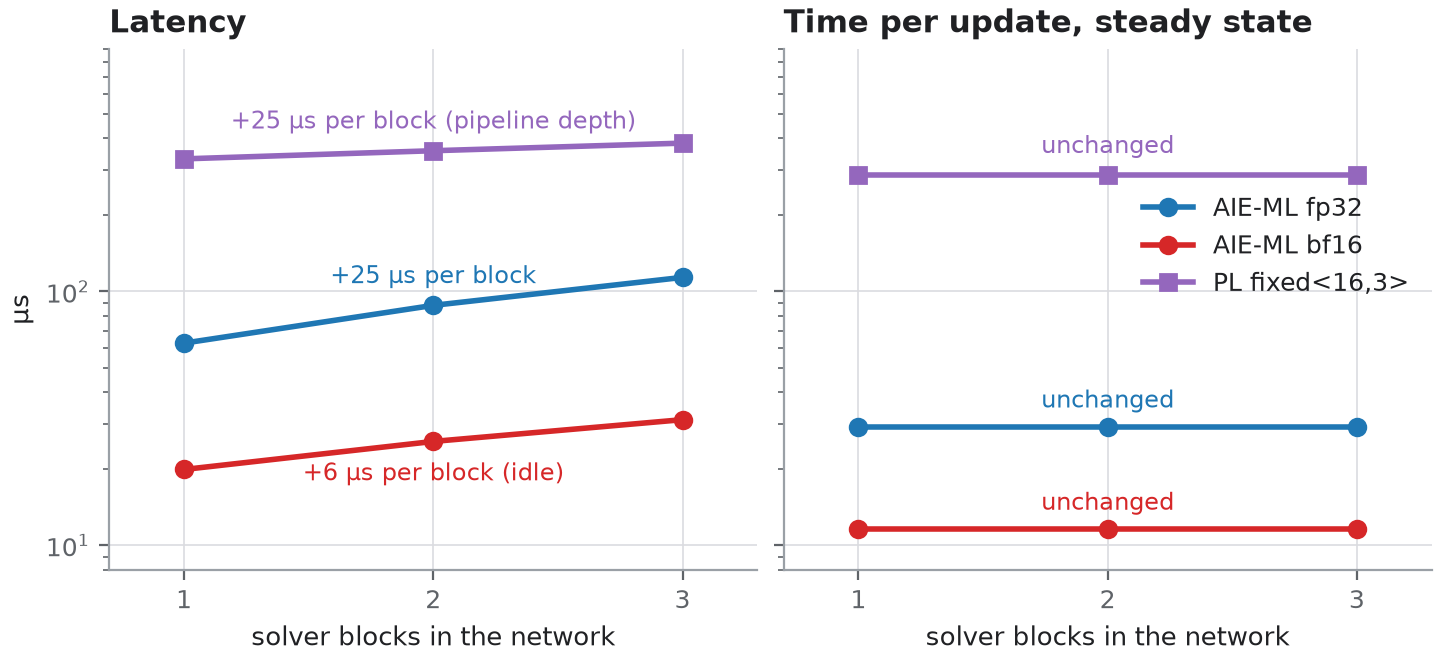
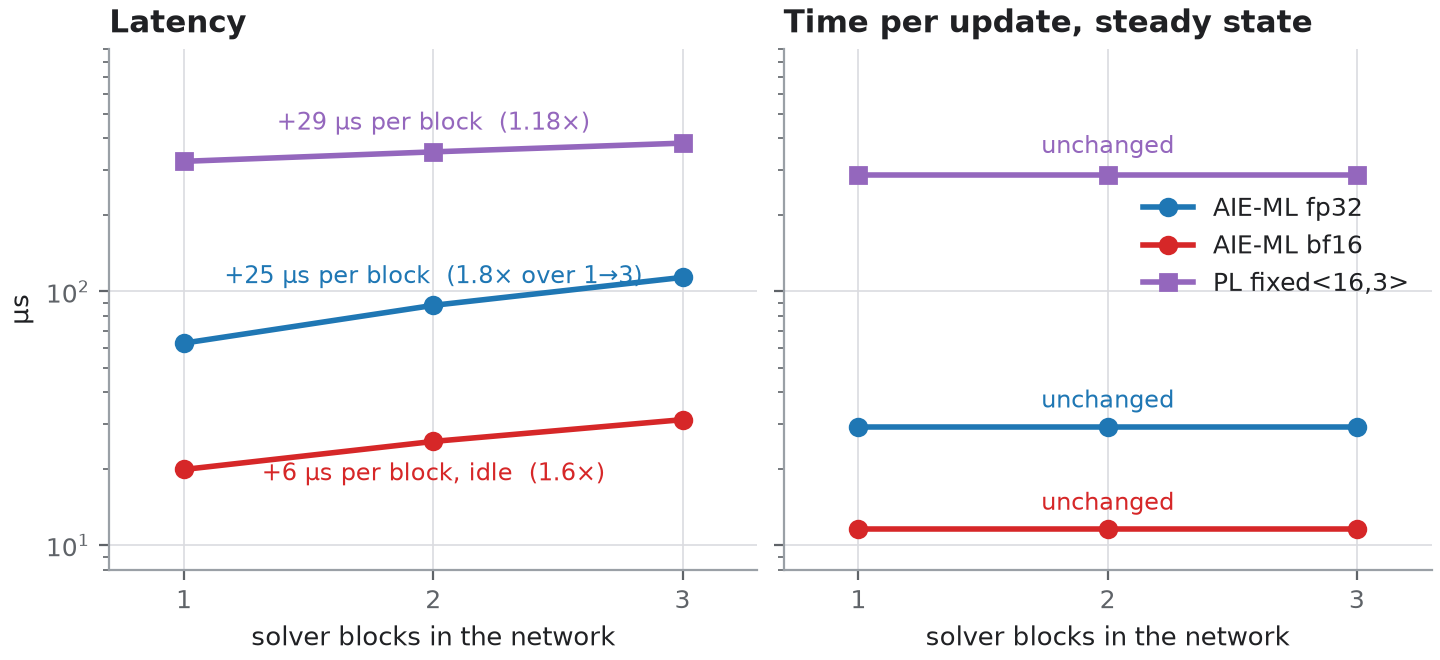
paper figures: the PL per-block latency was undercounted, and a log axis hid it
Two corrections to res_scaling.png, both found by the user asking where the
numbers came from.

1. THE PER-BLOCK LATENCY WAS 25.5 us AND IS 29.2.

   I used the bare structural sum of one solver's critical path, read from the
   csynth per-track intervals:

     roll 131 + 4 x dense 1031 + add 106 + 4 x act 56 = 4585 cycles
     (dense5 is parallel to dense3, so it is not on the path)

   Checked against the measurement, that only accounts for 15,228 of the
   17,429-cycle fill that cosim measures -- 87%. The missing 2,201 cycles are
   AXI latency and handshakes across ~38 process boundaries: real, and present
   in the measurement. Apportioning the MEASURED fill by structural share puts
   one block at 4585 x 1.145 = 5,248 cycles = 29.2 us.

   The figure now computes it that way, and the derivation is written out in
   the source so the next reader can check it rather than trust it.

2. "+25 US PER BLOCK" APPEARED ON BOTH fp32 AND THE PL, YET THE CURVES LOOKED
   DIFFERENT -- and both were right.

   The slopes were genuinely equal in microseconds. The y axis is logarithmic,
   so it shows RELATIVE change, and equal absolute steps look smaller the
   higher up they sit:

     fp32  62.5 -> 113.4   1.82x      PL  324.9 -> 383.2   1.18x

   The PL's latency is 75% the 50-track drain (286.4 us, fixed by the interval)
   and only 25% pipeline depth, so extra depth barely shows. That is a real
   property and the figure should say it. Every latency annotation now carries
[…]

Changed region(s): [[0.125, 0.1515, 0.4375, 0.2727], [0.1562, 0.3939, 0.4375, 0.4545], [0.1875, 0.697, 0.4375, 0.7273]]

diff --git a/docs/paper_figures/make_results_figures.py b/docs/paper_figures/make_results_figures.py
@@ -68,15 +68,27 @@ def scaling():
     lat_fp32 = 113.4 - 76.24 + np.array([25.31, 50.83, 76.24])
     lat_bf16 = 31.2 - 16.92 + np.array([5.58, 11.33, 16.92])            # idle array, iteration 0 lags
     # PL, pipelined: adding a solver block adds PIPELINE DEPTH, not interval. The
-    # interval is set by the slowest stage -- one 128x128 dense at reuse factor
-    # 1024, 1031 cycles/track (H) -- and that does not change when blocks are
-    # added, exactly as on the array. So throughput is FLAT and only latency grows.
-    # One block's depth, from the per-track intervals in the csynth report (H):
-    #   4 dense x 1031 + 1 add 106 + 4 activations x 56 + roll 131 = 4585 cycles
-    # = 25.5 us, anchored at 3 blocks on the measured cosim latency 383.2 us (T).
-    # (Before pipelining a block cost 4966 cycles/track x 50 tracks = 1.4 ms of
-    # BOTH latency and throughput.)
-    pl      = LAT['pl'] - (3 - blocks) * 4585 * 5.5556e-3
+    # interval is the MAX over stages, not the sum -- one 128x128 dense at reuse
+    # factor 1024, 1031 cycles/track (H) -- and every dense reports exactly that,
+    # so adding blocks of the same stages cannot move it. Throughput is FLAT and
+    # only latency grows. (Before pipelining the design SUMMED, so a block cost
+    # 4966 cycles/track x 50 tracks = 1.4 ms of BOTH.)
+    #
+    # ONLY THE 3-BLOCK POINT IS MEASURED. 1 and 2 are derived, as they were in
+    # the pre-pipelining version of this figure. The per-block latency is the
+    # MEASURED fill apportioned by structural share -- not the bare structural
+    # sum, which undercounts:
+    #   critical path of one solver (H, per-track intervals, dense5 is parallel
+    #   to dense3 so it is not on the path):
+    #     roll 131 + 4 x dense 1031 + add 106 + 4 x act 56        = 4585 cyc
+    #   embed: 199 + 56 + 1031 + 56                               = 1342 cyc
+    #   structural total  1342 + 3x4585 + mean ~130               = 15228 cyc
+    #   measured fill (T) 68,981 - 51,552                         = 17429 cyc
+    # The 2201-cycle gap is AXI latency and handshakes across ~38 process
+    # boundaries -- real, and in the measurement. Scaling by 17429/15228 = 1.145
+    # puts one block at 4585 x 1.145 = 5248 cyc = 29.2 us.
+    PL_BLOCK_US = 4585 * (17429 / 15228) * 5.5556e-3            # 29.2 us
+    pl      = LAT['pl'] - (3 - blocks) * PL_BLOCK_US
     thr_pl  = np.full(3, THR['pl'])
     thr_fp32 = np.full(3, THR['fp32']); thr_bf16 = np.full(3, THR['bf16'])
     fig, (a, b) = plt.subplots(1, 2, figsize=(7.2, 3.3), sharey=True)
@@ -88,12 +100,12 @@ def scaling():
         ax.set_xticks(blocks); ax.set_xlim(0.7, 3.3); ax.set_yscale('log')
         ax.set_xlabel('solver blocks in the network'); ax.set_title(ttl)
     a.set_ylabel('µs'); a.set_ylim(8, 900)
-    a.annotate('+25 µs per block', (2, lat_fp32[1]), xytext=(0, 8), textcoords='offset points', ha='center', fontsize=8.5, color=C['fp32'])
-    a.annotate('+6 µs per block (idle)', (2, lat_bf16[1]), xytext=(0, -14), textcoords='offset points', ha='center', fontsize=8.5, color=C['bf16'])
-    # 25.5 us, within noise of fp32's 25.3 -- a coincidence, and readers will read
-    # it as a copy-paste bug unless the mechanism is named. The array pays cascade
-    # lag; the fabric pays pipeline depth.
-    a.annotate('+25 µs per block (pipeline depth)', (2, pl[1]), xytext=(0, 8), textcoords='offset points', ha='center', fontsize=8.5, color=C['pl'])
+    # The y axis is logarithmic, so equal microsecond steps look smaller the
+    # higher up they sit. Quote the growth factor as well or the reader compares
+    # slopes that the axis is not showing.
+    a.annotate(f'+25 µs per block  ({lat_fp32[2]/lat_fp32[0]:.1f}× over 1→3)', (2, lat_fp32[1]), xytext=(0, 8), textcoords='offset points', ha='center', fontsize=8.5, color=C['fp32'])
+    a.annotate(f'+6 µs per block, idle  ({lat_bf16[2]/lat_bf16[0]:.1f}×)', (2, lat_bf16[1]), xytext=(0, -14), textcoords='offset points', ha='center', fontsize=8.5, color=C['bf16'])
+    a.annotate(f'+{PL_BLOCK_US:.0f} µs per block  ({pl[2]/pl[0]:.2f}×)', (2, pl[1]), xytext=(0, 8), textcoords='offset points', ha='center', fontsize=8.5, color=C['pl'])
     b.annotate('unchanged', (2, thr_fp32[1]), xytext=(0, 7), textcoords='offset points', ha='center', fontsize=8.5, color=C['fp32'])
     b.annotate('unchanged', (2, thr_bf16[1]), xytext=(0, 7), textcoords='offset points', ha='center', fontsize=8.5, color=C['bf16'])
     b.annotate('unchanged', (2, thr_pl[1]), xytext=(0, 8), textcoords='offset points', ha='center', fontsize=8.5, color=C['pl'])
